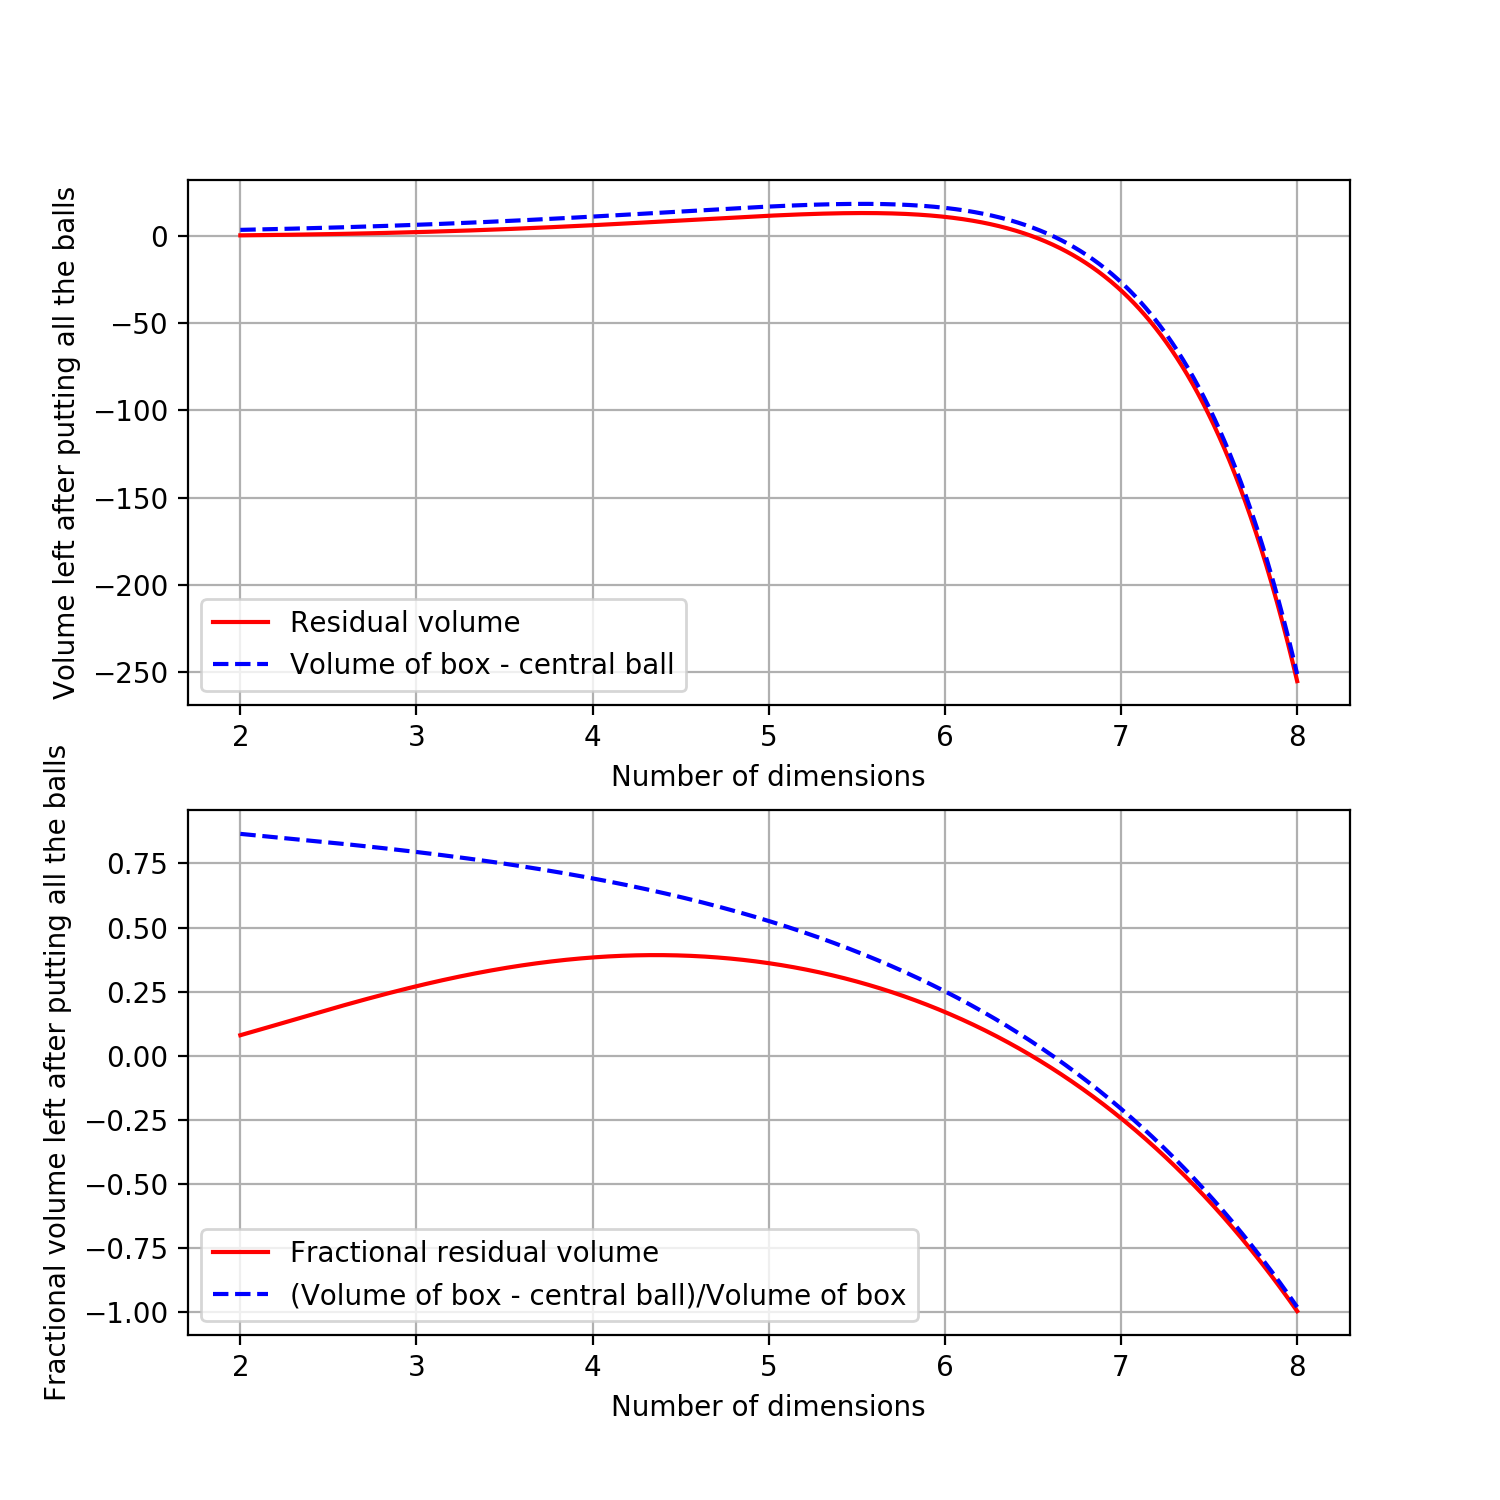
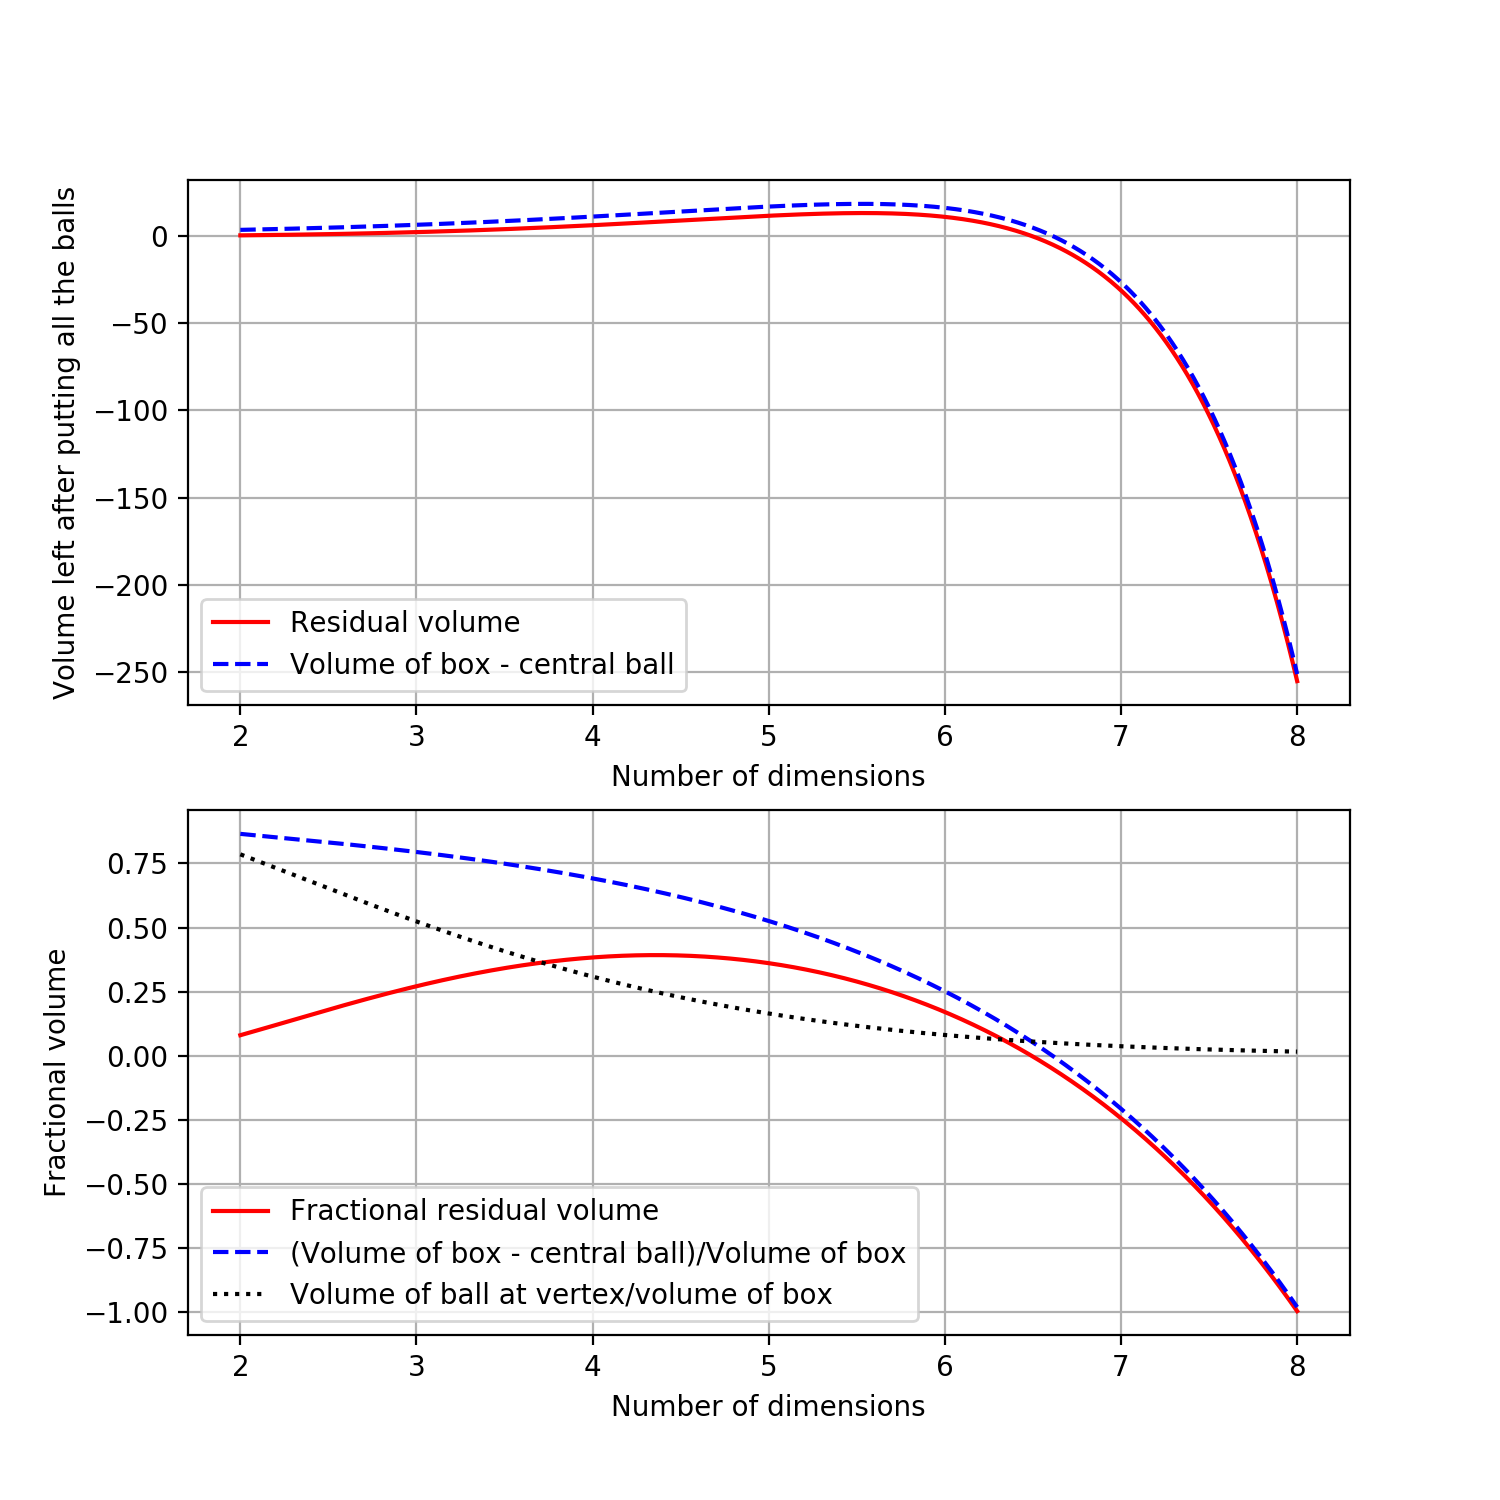
Added plot for the ratio between the volume of the vertex ball and the box

Changed region(s): [[0.1227, 0.7973, 0.6133, 0.8893], [0.0307, 0.4907, 0.0613, 0.92]]

diff --git a/residualVolComputation.py b/residualVolComputation.py
@@ -52,6 +52,7 @@ if __name__ == "__main__":
     resVols_central = residualVol(dims, residual=False)
     frac_resVols = resVols/(2**dims)
     frac_resVols_central = resVols_central/(2**dims)
+    vol_factor = (np.pi**(dims/2))/((2**dims)*gamma(dims/2 + 1))
     if args.continuous:
         marker1 = 'r-'
         marker2 = 'b--'
@@ -70,11 +71,14 @@ if __name__ == "__main__":
     pl.subplot(2,1,2)
     p1, = pl.plot(dims, frac_resVols, marker1)
     p2, = pl.plot(dims, frac_resVols_central, marker2)
-    pl.legend([p1, p2], ['Fractional residual volume',
-                         '(Volume of box - central ball)/Volume of box'])
+    p3, = pl.plot(dims, vol_factor, 'k:')
+
+    pl.legend([p1, p2, p3], ['Fractional residual volume',
+                             '(Volume of box - central ball)/Volume of box',
+                             'Volume of ball at vertex/volume of box'])
 
     pl.xlabel('Number of dimensions')
-    pl.ylabel('Fractional volume left after putting all the balls')
+    pl.ylabel('Fractional volume')
     pl.grid(1)
 
 

diff --git a/README.md b/README.md
@@ -25,4 +25,5 @@ It was observed that this residual volume gets larger with increasing dimensiona
 residual volume gets lower and beyond D>6.5 the residual volume is negative, meaning the volume of the hyper-cube is smaller than the
 volume of the combined volume occupied by the hyper-spheres. It was also observed that the difference between the volumes of the hyper-cube and the central hyper-sphere follows the same trend. 
 However, when we plot the fractional residual volume, which is the residual volume divided by the volume of the hyper-cube, and the fraction difference between the hyper-cube's volume and the hyper-sphere's volume then we note the following:
-The fractional difference between the volume of the hyper-cube and the hyper-sphere is a monotonically decreasing function of the dimensionality. While the fractional residual volume peaks somewhere beteen D=4 and D=5, where the close to 40% of the hyper-cube is still empty.
+The fractional difference between the volume of the hyper-cube and the hyper-sphere is a monotonically decreasing function of the dimensionality. This implies that with increasing dimesionality, the hyper-sphere contains greater and greater volume fraction of the hyper-cube. This is corollary to the point made in the video, namely, the "proportion of the inner-sphere lying inside the box decreases exponentially towards zero as the dimension keeps increasing".
+What is interesting though is that the fractional residual volume peaks somewhere between D=4 and D=5, where close to 40% of the hyper-cube is still empty. This means that while the central hyper-sphere keeps increasing in volume, up to D of 4.4 or so, the volume of the other spheres in the vertices contributes lesser and lesser to the volume enclosed by the hyper-cube (as shown by the dotted black curve, which depicts the ratio of the the volume contributions from the hyper-spheres at the vertices and the volume of the hyper-cube), until at about D=4.4 the central hyper-sphere completely takes over this contribution.
